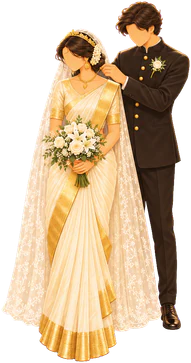
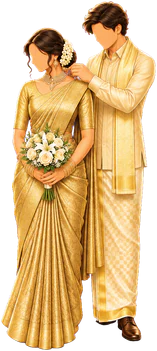
Church: the couple in their new clothes, the groom waiting, the bride and flower girl walking up side by side; Haldi: curtains on top
- Church: new art — the couple walking out, the minnu / ring poses, and
  the bride from behind + the groom waiting (gold kasavu saree; cream
  shirt, mundu and veshti), renamed couple-walk-v3, couple-altar-v3 and
  bride-groom-arrive
- the groom comes to wait at the altar; the flower girl and the bride walk
  up the aisle side by side, in step (no overlap, their gap shrinking with
  the perspective); the girl slips away near the steps, the bride arrives
  exactly where she stands in the minnu pose, and in the beam of light
  they turn to each other (a short cross-fade)
- the walking couple is placed by height (the master shows the old clothes)
- Haldi: both tied-back curtains are the top layer — the boy runs in from
  behind the right one

diff --git a/src/components/scenes/ChurchWeddingScene.tsx b/src/components/scenes/ChurchWeddingScene.tsx
@@ -28,8 +28,9 @@ import {
  * The church wedding scene, "The Aisle": the church appears (altar, windows,
  * the flower arch, the bells), the pews fill with guests row by row and the
  * candles are lit, the runner unrolls and the priest rises in behind the
- * altar. The flower girl walks up the aisle scattering petals; then, in a beam
- * of light from the cross, the couple appear at the altar: he ties the minnu
+ * altar while the groom comes to wait there. The flower girl walks up the
+ * aisle scattering petals, the bride behind her; as she reaches him a beam of
+ * light falls from the cross and they turn to each other: he ties the minnu
  * (a golden glint at her neck), then slips the ring on her finger (a bright
  * glint, petals from the arch). The bells ring and they walk back down the
  * aisle arm in arm; the flower girl and the ring bearer come in at the front
@@ -98,6 +99,8 @@ export function ChurchWeddingScene({ scrollerRef, style, reduce, page }: { scrol
       const { spawn, setTicking, count } = createParticles(q(".ms-particle") as HTMLImageElement[], H, url);
 
       const girlBack = item("girl-back");
+      const groomWait = item("groom-wait");
+      const brideBack = item("bride-back");
       const altarA = item("couple-altar-a");
       const altarB = item("couple-altar-b");
       const walk = item("couple-walk");
@@ -106,7 +109,7 @@ export function ChurchWeddingScene({ scrollerRef, style, reduce, page }: { scrol
       const glow = q(".cw-glow")[0];
       const holy = q(".cw-holy")[0];
       // hidden until their moment (the timeline below brings each in)
-      gsap.set([girlBack, altarA, altarB, walk, ...kids], { autoAlpha: 0 });
+      gsap.set([girlBack, groomWait, brideBack, altarA, altarB, walk, ...kids], { autoAlpha: 0 });
       gsap.set(q(".cw-flame"), { scale: 0, autoAlpha: 0 });
       gsap.set([holy, q(".cw-glint")], { autoAlpha: 0 });
 
@@ -222,25 +225,38 @@ export function ChurchWeddingScene({ scrollerRef, style, reduce, page }: { scrol
       tl.fromTo(item("runner"), { scaleY: 0, opacity: 0 }, { scaleY: 1, opacity: 1, duration: 0.8, ease: "power2.inOut" }, t);
       tl.fromTo(items("scatter-"), { opacity: 0 }, { opacity: 1, duration: 0.4, stagger: 0.03 }, t + 0.6);
       tl.fromTo(item("priest"), { opacity: 0, y: () => H() * 0.03 }, { opacity: 1, y: 0, duration: 0.6, ease: "power3.out" }, t + 0.25);
+      // the groom comes to the altar and waits, facing the aisle
+      tl.fromTo(groomWait, { x: () => -W() * 0.06, autoAlpha: 0 }, { x: 0, autoAlpha: 1, duration: 0.7, ease: "power2.out" }, t + 0.4);
       t += ACT.runner;
 
-      // 4. the flower girl walks up the aisle (smaller and smaller), leaving petals on the runner,
-      //    and fades out near the altar steps
+      // 4. the flower girl and the bride walk up the aisle side by side, in step (the girl on the
+      //    left, scattering petals), smaller and smaller: their gap shrinks with the perspective, so
+      //    the bride arrives exactly at her place beside him; near the steps the girl slips away
       const gfBase = sAt(byId["girl-front"].y); // the children's layout size is their size at the front
       const girl = walker(girlBack, byId["girl-back"], gfBase);
-      const girlFrom = { x: 50, y: 97 };
-      const girlTo = { x: 49, y: YA + 5 };
-      tl.fromTo(girlBack, { autoAlpha: 0 }, { autoAlpha: 1, duration: 0.3 }, t);
-      girl.go(girlFrom, girlTo, t, ACT.girl - 0.1, 8);
-      for (let i = 0; i < 6; i++) tl.call(() => toss(girl.at("basket"), 2, -1, 0.6), undefined, t + 0.2 + i * 0.28);
-      tl.to(girlBack, { autoAlpha: 0, duration: 0.4 }, t + ACT.girl - 0.45);
-      t += ACT.girl;
+      const BB = byId["bride-back"];
+      const bride = walker(brideBack, BB, ALTAR_SCALE);
+      const walkT = ACT.girl + ACT.bride - 0.2;
+      const startY = YF + 3;
+      const gap0 = 28; // between them at the front (stage %), shrinking with the perspective
+      const brideFrom = { x: BB.x + 12, y: startY };
+      const brideTo = { x: BB.x, y: YA };
+      const girlFrom = { x: brideFrom.x - gap0, y: startY };
+      const girlTo = { x: brideTo.x - gap0 * ALTAR_SCALE, y: YA };
+      tl.fromTo([girlBack, brideBack], { autoAlpha: 0 }, { autoAlpha: 1, duration: 0.4 }, t);
+      girl.go(girlFrom, girlTo, t, walkT, 9, "power1.out");
+      bride.go(brideFrom, brideTo, t, walkT, 9, "power1.out");
+      for (let i = 0; i < 8; i++) tl.call(() => toss(girl.at("basket"), 2, -1, 0.6), undefined, t + 0.2 + i * 0.3);
+      tl.to(girlBack, { autoAlpha: 0, duration: 0.45 }, t + walkT * 0.78);
+      t += ACT.girl + ACT.bride;
 
       // 5. the couple appear: a soft beam of light falls from the cross onto the altar steps, and in
       //    it they rise gently into place; the beam softens
       tl.fromTo(holy, { autoAlpha: 0, scaleY: 0.4 }, { keyframes: [{ autoAlpha: 1, scaleY: 1, duration: 0.45, ease: "power2.out" }, { autoAlpha: 0.35, duration: 0.7, ease: "sine.inOut" }] }, t);
       tl.fromTo(glow, { opacity: 0, scale: 0.6 }, { opacity: 0.8, scale: 1, duration: 0.6, ease: "sine.out" }, t + 0.1);
-      tl.fromTo(altarA, { autoAlpha: 0, y: () => 12 * k() }, { autoAlpha: 1, y: 0, duration: 0.7, ease: "power2.out" }, t + 0.25);
+      // (they turn to each other: the minnu pose stands exactly where they are — a short cross-fade in the light)
+      tl.to([groomWait, brideBack], { autoAlpha: 0, duration: 0.4, ease: "sine.inOut" }, t + 0.3);
+      tl.fromTo(altarA, { autoAlpha: 0 }, { autoAlpha: 1, duration: 0.4, ease: "sine.inOut" }, t + 0.3);
       t += ACT.couple;
 
       // 6. the minnu: a golden glint and sparkles at her neck, a soft glow

diff --git a/public/scenes/church-wedding/contact.html b/public/scenes/church-wedding/contact.html
@@ -8,7 +8,7 @@ img{max-width:100%;max-height:150px}
 figcaption{margin-top:6px;display:flex;justify-content:space-between}small{opacity:.6}
 .dark .img{background:#3a0a10}
 </style></head><body>
-<p>47 pieces · <label><input type="checkbox" onchange="document.body.classList.toggle('dark',this.checked)"> dark background (shows any fringe)</label></p>
+<p>49 pieces · <label><input type="checkbox" onchange="document.body.classList.toggle('dark',this.checked)"> dark background (shows any fringe)</label></p>
 <main><figure><div class="img"><img src="backdrop.webp" alt="backdrop"></div><figcaption>backdrop<small>1024×1536</small></figcaption></figure>
 <figure><div class="img"><img src="altar-back.webp" alt="altar-back"></div><figcaption>altar-back<small>426×460</small></figcaption></figure>
 <figure><div class="img"><img src="altar-table.webp" alt="altar-table"></div><figcaption>altar-table<small>455×231</small></figcaption></figure>
@@ -20,9 +20,11 @@ figcaption{margin-top:6px;display:flex;justify-content:space-between}small{opaci
 <figure><div class="img"><img src="candle-tall.webp" alt="candle-tall"></div><figcaption>candle-tall<small>48×177</small></figcaption></figure>
 <figure><div class="img"><img src="candle-short.webp" alt="candle-short"></div><figcaption>candle-short<small>41×166</small></figcaption></figure>
 <figure><div class="img"><img src="flower-stand.webp" alt="flower-stand"></div><figcaption>flower-stand<small>147×248</small></figcaption></figure>
-<figure><div class="img"><img src="couple-walk.webp" alt="couple-walk"></div><figcaption>couple-walk<small>651×1068</small></figcaption></figure>
-<figure><div class="img"><img src="couple-altar-a.webp" alt="couple-altar-a"></div><figcaption>couple-altar-a<small>191×363</small></figcaption></figure>
-<figure><div class="img"><img src="couple-altar-b.webp" alt="couple-altar-b"></div><figcaption>couple-altar-b<small>204×364</small></figcaption></figure>
+<figure><div class="img"><img src="couple-walk.webp" alt="couple-walk"></div><figcaption>couple-walk<small>543×1035</small></figcaption></figure>
+<figure><div class="img"><img src="couple-altar-a.webp" alt="couple-altar-a"></div><figcaption>couple-altar-a<small>157×351</small></figcaption></figure>
+<figure><div class="img"><img src="couple-altar-b.webp" alt="couple-altar-b"></div><figcaption>couple-altar-b<small>179×352</small></figcaption></figure>
+<figure><div class="img"><img src="bride-back.webp" alt="bride-back"></div><figcaption>bride-back<small>118×331</small></figcaption></figure>
+<figure><div class="img"><img src="groom-wait.webp" alt="groom-wait"></div><figcaption>groom-wait<small>101×344</small></figcaption></figure>
 <figure><div class="img"><img src="pew-guests-1.webp" alt="pew-guests-1"></div><figcaption>pew-guests-1<small>479×345</small></figcaption></figure>
 <figure><div class="img"><img src="pew-guests-2.webp" alt="pew-guests-2"></div><figcaption>pew-guests-2<small>441×324</small></figcaption></figure>
 <figure><div class="img"><img src="pew-guests-3.webp" alt="pew-guests-3"></div><figcaption>pew-guests-3<small>479×345</small></figcaption></figure>

diff --git a/src/config/timing.ts b/src/config/timing.ts
@@ -271,9 +271,10 @@ export const timing = {
     /** the church wedding scene ("The Aisle"): the story plays (timed) as its page arrives */
     church: {
       /** seconds for each act: the church appears; pews and guests, candles; the runner and the
-       *  priest; the flower girl walks up the aisle; the couple appear in a beam of light; the
-       *  minnu; the rings; the bells and the walk back down the aisle; the finale */
-      acts: { church: 1.6, aisle: 1.6, runner: 1.0, girl: 2.0, couple: 1.2, minnu: 1.3, rings: 1.4, recessional: 3.0, finale: 1.6 },
+       *  priest (the groom comes to wait); the flower girl walks up the aisle, the bride after her
+       *  (girl + bride); the beam of light, they turn to each other; the minnu; the rings; the
+       *  bells and the walk back down the aisle; the finale */
+      acts: { church: 1.6, aisle: 1.6, runner: 1.2, girl: 2.0, bride: 1.8, couple: 1.2, minnu: 1.3, rings: 1.4, recessional: 3.0, finale: 1.6 },
       reverseSpeed: 6,
       startAt: "96%",
       maxAmbient: 8,

diff --git a/app/globals.css b/app/globals.css
@@ -2215,7 +2215,7 @@ body {
   mask-image: radial-gradient(ellipse 62% 58% at 50% 46%, #000 58%, transparent 100%);
 }
 /* reduced motion: the final scene (the couple walking out, the children at the front) */
-.cw-scene[data-reduce] :is([data-id="girl-back"], [data-id="couple-altar-a"], [data-id="couple-altar-b"]) {
+.cw-scene[data-reduce] :is([data-id="girl-back"], [data-id="groom-wait"], [data-id="bride-back"], [data-id="couple-altar-a"], [data-id="couple-altar-b"]) {
   display: none;
 }
 /* the beam of light from the cross onto the altar steps */
